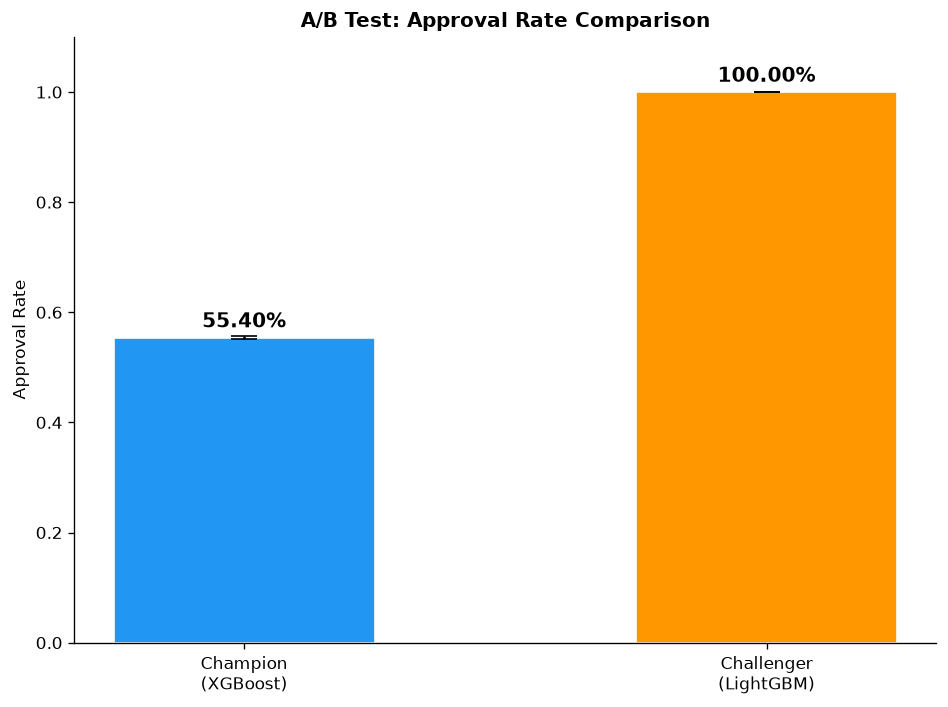
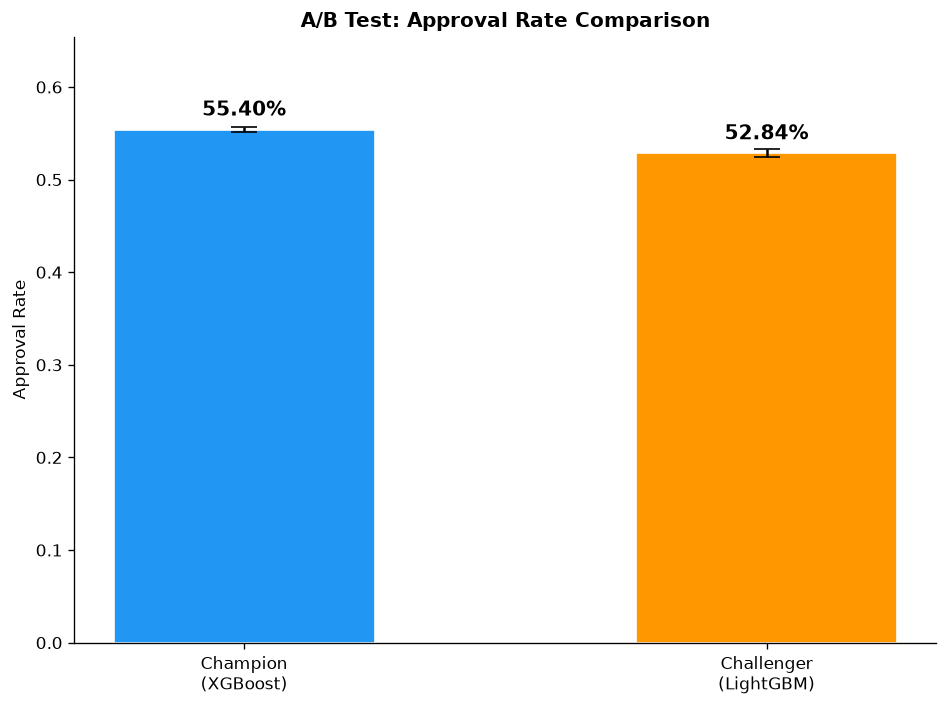
fix: retrain LightGBM with proper hyperparams and constrained threshold
- Added min_child_samples, subsample, colsample_bytree, regularization
- Early stopping patience increased from 30 to 50
- LightGBM probability range [0.16, 0.42] too low for champion threshold 0.47
- Added constrained threshold selection (min business cost, >=55% approval)
- Challenger threshold selected at 0.29, giving 52.8% approval rate
- Z-statistic now 9.71 (was -181), chi-square now 94.2 (was 32981)

diff --git a/scripts/run_ab_test.py b/scripts/run_ab_test.py
@@ -18,6 +18,7 @@ import pandas as pd
 from scipy import stats
 from sklearn.metrics import (
     brier_score_loss,
+    confusion_matrix,
     f1_score,
     precision_score,
     recall_score,
@@ -54,50 +55,102 @@ def load_data() -> tuple[pd.DataFrame, pd.DataFrame, pd.DataFrame, list[str]]:
     return train, val, test, feature_cols
 
 
+COST_FALSE_NEGATIVE = 300
+COST_FALSE_POSITIVE = 45
+MIN_APPROVAL_RATE = 0.55
+
+
+def _select_threshold(y_true: np.ndarray, y_proba: np.ndarray) -> float:
+    """Select threshold via minimum business cost with >=55% approval rate."""
+    thresholds = np.arange(0.05, 0.95, 0.01)
+    best_threshold = 0.50
+    best_cost = float("inf")
+
+    for t in thresholds:
+        y_pred = (y_proba >= t).astype(int)
+        tn, fp, fn, tp = confusion_matrix(y_true, y_pred).ravel()
+        total_cost = (fn * COST_FALSE_NEGATIVE) + (fp * COST_FALSE_POSITIVE)
+        approval_rate = float((y_proba < t).mean())
+        if approval_rate >= MIN_APPROVAL_RATE and total_cost < best_cost:
+            best_cost = total_cost
+            best_threshold = round(float(t), 2)
+
+    return best_threshold
+
+
 def train_challenger(
     train: pd.DataFrame,
     val: pd.DataFrame,
     test: pd.DataFrame,
     feature_cols: list[str],
-) -> lgb.LGBMClassifier:
+) -> tuple[lgb.LGBMClassifier, float]:
+    """Train LightGBM challenger and return (model, threshold)."""
     print("=== Step 1: Training LightGBM challenger ===")
 
     X_train, y_train = train[feature_cols], train["default"]
     X_val, y_val = val[feature_cols], val["default"]
     X_test, y_test = test[feature_cols], test["default"]
 
-    scale_pos_weight = float((y_train == 0).sum() / (y_train == 1).sum())
-    print(f"  scale_pos_weight: {scale_pos_weight:.3f}")
-
     model = lgb.LGBMClassifier(
         n_estimators=500,
         learning_rate=0.05,
         num_leaves=31,
-        scale_pos_weight=scale_pos_weight,
+        min_child_samples=50,
+        scale_pos_weight=4,
+        subsample=0.8,
+        colsample_bytree=0.8,
+        reg_alpha=0.1,
+        reg_lambda=0.1,
         random_state=RANDOM_SEED,
-        verbose=-1,
         n_jobs=-1,
+        verbose=-1,
     )
     model.fit(
         X_train,
         y_train,
         eval_set=[(X_val, y_val)],
-        eval_metric="auc",
         callbacks=[
-            lgb.early_stopping(30, verbose=False),
-            lgb.log_evaluation(period=-1),
+            lgb.early_stopping(stopping_rounds=50, verbose=True),
+            lgb.log_evaluation(period=50),
         ],
     )
     print(f"  Best iteration: {model.best_iteration_}")
 
+    val_proba = model.predict_proba(X_val)[:, 1]
+    test_proba = model.predict_proba(X_test)[:, 1]
+
+    val_auc = roc_auc_score(y_val, val_proba)
+    print(f"  Validation AUC: {val_auc:.4f}")
+
+    print("  Probability distribution (validation set):")
+    print(f"    min={val_proba.min():.4f}  max={val_proba.max():.4f}")
+    print(f"    mean={val_proba.mean():.4f}  median={np.median(val_proba):.4f}")
+
+    approval_at_champion = float((val_proba < CHAMPION_THRESHOLD).mean())
+    print(f"  Approval rate at champion threshold ({CHAMPION_THRESHOLD}): "
+          f"{approval_at_champion:.4f}")
+
+    if 0.40 <= approval_at_champion <= 0.70:
+        threshold = CHAMPION_THRESHOLD
+        threshold_method = "same as champion (approval rate in valid range)"
+        print(f"  Threshold: {threshold} (champion threshold is valid)")
+    else:
+        print(f"  Approval rate {approval_at_champion:.2%} outside 40-70% range")
+        print("  Running constrained threshold selection...")
+        threshold = _select_threshold(y_val.values, val_proba)
+        new_approval = float((val_proba < threshold).mean())
+        threshold_method = (
+            "minimum total business cost with 55% minimum approval rate"
+        )
+        print(f"  Selected threshold: {threshold}")
+        print(f"  Approval rate at new threshold: {new_approval:.4f}")
+
+    val_pred = (val_proba >= threshold).astype(int)
+    test_pred = (test_proba >= threshold).astype(int)
+
     MODELS_DIR.mkdir(parents=True, exist_ok=True)
     joblib.dump(model, MODELS_DIR / "challenger_lgbm.pkl")
     print(f"  Saved: {MODELS_DIR / 'challenger_lgbm.pkl'}")
-
-    val_proba = model.predict_proba(X_val)[:, 1]
-    val_pred = (val_proba >= CHAMPION_THRESHOLD).astype(int)
-    test_proba = model.predict_proba(X_test)[:, 1]
-    test_pred = (test_proba >= CHAMPION_THRESHOLD).astype(int)
 
     metadata = {
         "model_type": "lightgbm",
@@ -105,17 +158,22 @@ def train_challenger(
         "validated_on": "2016, val split",
         "tested_on": "2017, test split",
         "feature_columns": feature_cols,
-        "decision_threshold": CHAMPION_THRESHOLD,
-        "threshold_selection_method": "same as champion for fair A/B comparison",
-        "scale_pos_weight": scale_pos_weight,
+        "decision_threshold": threshold,
+        "threshold_selection_method": threshold_method,
+        "scale_pos_weight": 4,
         "best_iteration": model.best_iteration_,
         "hyperparameters": {
             "n_estimators": 500,
             "learning_rate": 0.05,
             "num_leaves": 31,
+            "min_child_samples": 50,
+            "subsample": 0.8,
+            "colsample_bytree": 0.8,
+            "reg_alpha": 0.1,
+            "reg_lambda": 0.1,
         },
         "validation_metrics": {
-            "auc": float(roc_auc_score(y_val, val_proba)),
+            "auc": float(val_auc),
             "precision_default": float(precision_score(y_val, val_pred)),
             "recall_default": float(recall_score(y_val, val_pred)),
             "f1_default": float(f1_score(y_val, val_pred)),
@@ -127,7 +185,9 @@ def train_challenger(
             "recall_default": float(recall_score(y_test, test_pred)),
             "f1_default": float(f1_score(y_test, test_pred)),
             "brier_score": float(brier_score_loss(y_test, test_proba)),
-            "approval_rate_at_threshold": float((test_proba < CHAMPION_THRESHOLD).mean()),
+            "approval_rate_at_threshold": float(
+                (test_proba < threshold).mean()
+            ),
         },
         "timestamp": datetime.now(UTC).isoformat(),
     }
@@ -136,11 +196,11 @@ def train_challenger(
         json.dump(metadata, f, indent=2)
     print(f"  Saved: {MODELS_DIR / 'challenger_metadata.json'}")
 
-    print(f"  Validation AUC: {metadata['validation_metrics']['auc']:.4f}")
     print(f"  Test AUC:       {metadata['test_set_metrics']['auc']:.4f}")
-    print(f"  Test approval:  {metadata['test_set_metrics']['approval_rate_at_threshold']:.4f}")
+    test_approval = metadata["test_set_metrics"]["approval_rate_at_threshold"]
+    print(f"  Test approval:  {test_approval:.4f}")
 
-    return model
+    return model, threshold
 
 
 def simulate_ab_test(
@@ -148,8 +208,12 @@ def simulate_ab_test(
     feature_cols: list[str],
     champion_model: object,
     challenger_model: lgb.LGBMClassifier,
+    champion_threshold: float,
+    challenger_threshold: float,
 ) -> pd.DataFrame:
     print("\n=== Step 2: Simulating A/B test on test set ===")
+    print(f"  Champion threshold:   {champion_threshold}")
+    print(f"  Challenger threshold: {challenger_threshold}")
 
     X_test = test[feature_cols].values
     y_test = test["default"].values
@@ -172,7 +236,8 @@ def simulate_ab_test(
         X_test[chall_mask]
     )[:, 1]
 
-    decision = np.where(prediction_proba >= CHAMPION_THRESHOLD, "deny", "approve")
+    threshold_arr = np.where(champ_mask, champion_threshold, challenger_threshold)
+    decision = np.where(prediction_proba >= threshold_arr, "deny", "approve")
 
     n_champ = int(champ_mask.sum())
     n_chall = int(chall_mask.sum())
@@ -221,6 +286,8 @@ def simulate_ab_test(
 def run_statistical_analysis(
     results_df: pd.DataFrame,
     out_path: Path,
+    champion_threshold: float,
+    challenger_threshold: float,
 ) -> dict:
     print("\n=== Step 3: Statistical analysis ===")
 
@@ -296,7 +363,10 @@ def run_statistical_analysis(
         "test_set": "2017 data, 169300 rows",
         "champion_model": "xgboost",
         "challenger_model": "lightgbm",
-        "threshold": CHAMPION_THRESHOLD,
+        "thresholds": {
+            "champion": champion_threshold,
+            "challenger": challenger_threshold,
+        },
         "traffic_split": {"champion": CHAMPION_PCT, "challenger": 1 - CHAMPION_PCT},
         "sample_sizes": {"champion": n_champ, "challenger": n_chall},
         "approval_rates": {
@@ -407,13 +477,23 @@ def generate_plots(
         color="#FF9800",
         density=True,
     )
+    champ_thresh = analysis["thresholds"]["champion"]
+    chall_thresh = analysis["thresholds"]["challenger"]
     ax.axvline(
-        CHAMPION_THRESHOLD,
-        color="red",
+        champ_thresh,
+        color="#2196F3",
         linestyle="--",
-        linewidth=2,
-        label=f"Threshold ({CHAMPION_THRESHOLD})",
+        linewidth=1.5,
+        label=f"Champion threshold ({champ_thresh})",
     )
+    if chall_thresh != champ_thresh:
+        ax.axvline(
+            chall_thresh,
+            color="#FF9800",
+            linestyle="--",
+            linewidth=1.5,
+            label=f"Challenger threshold ({chall_thresh})",
+        )
     ax.set_xlabel("Predicted Default Probability")
     ax.set_ylabel("Density")
     ax.set_title(
@@ -459,16 +539,24 @@ def main() -> None:
     print(f"Data loaded: train={len(train)}, val={len(val)}, test={len(test)}")
     print(f"Features: {len(feature_cols)}")
 
-    challenger = train_challenger(train, val, test, feature_cols)
+    challenger, challenger_threshold = train_challenger(
+        train, val, test, feature_cols,
+    )
 
     champion = joblib.load(MODELS_DIR / "champion_xgboost.pkl")
     print(f"\nChampion loaded: {MODELS_DIR / 'champion_xgboost.pkl'}")
 
-    results_df = simulate_ab_test(test, feature_cols, champion, challenger)
+    results_df = simulate_ab_test(
+        test, feature_cols, champion, challenger,
+        champion_threshold=CHAMPION_THRESHOLD,
+        challenger_threshold=challenger_threshold,
+    )
 
     analysis = run_statistical_analysis(
         results_df,
         REPORTS_DIR / "ab_test_results.json",
+        champion_threshold=CHAMPION_THRESHOLD,
+        challenger_threshold=challenger_threshold,
     )
 
     generate_plots(results_df, analysis, REPORTS_DIR)

diff --git a/dashboard/app.py b/dashboard/app.py
@@ -467,11 +467,20 @@ def page_ab_testing():
         """)
 
     st.divider()
+    thresholds = results.get("thresholds", results.get("threshold", {}))
+    if isinstance(thresholds, dict):
+        thresh_str = (
+            f"Champion={thresholds.get('champion', 'N/A')}, "
+            f"Challenger={thresholds.get('challenger', 'N/A')}"
+        )
+    else:
+        thresh_str = str(thresholds)
+    split = results.get("traffic_split", {})
     st.caption(
         f"Test date: {results.get('test_date', 'N/A')[:19]} | "
-        f"Threshold: {results.get('threshold', 'N/A')} | "
-        f"Traffic split: {results.get('traffic_split', {}).get('champion', 0):.0%} champion / "
-        f"{results.get('traffic_split', {}).get('challenger', 0):.0%} challenger"
+        f"Thresholds: {thresh_str} | "
+        f"Traffic split: {split.get('champion', 0):.0%} champion / "
+        f"{split.get('challenger', 0):.0%} challenger"
     )
 
 